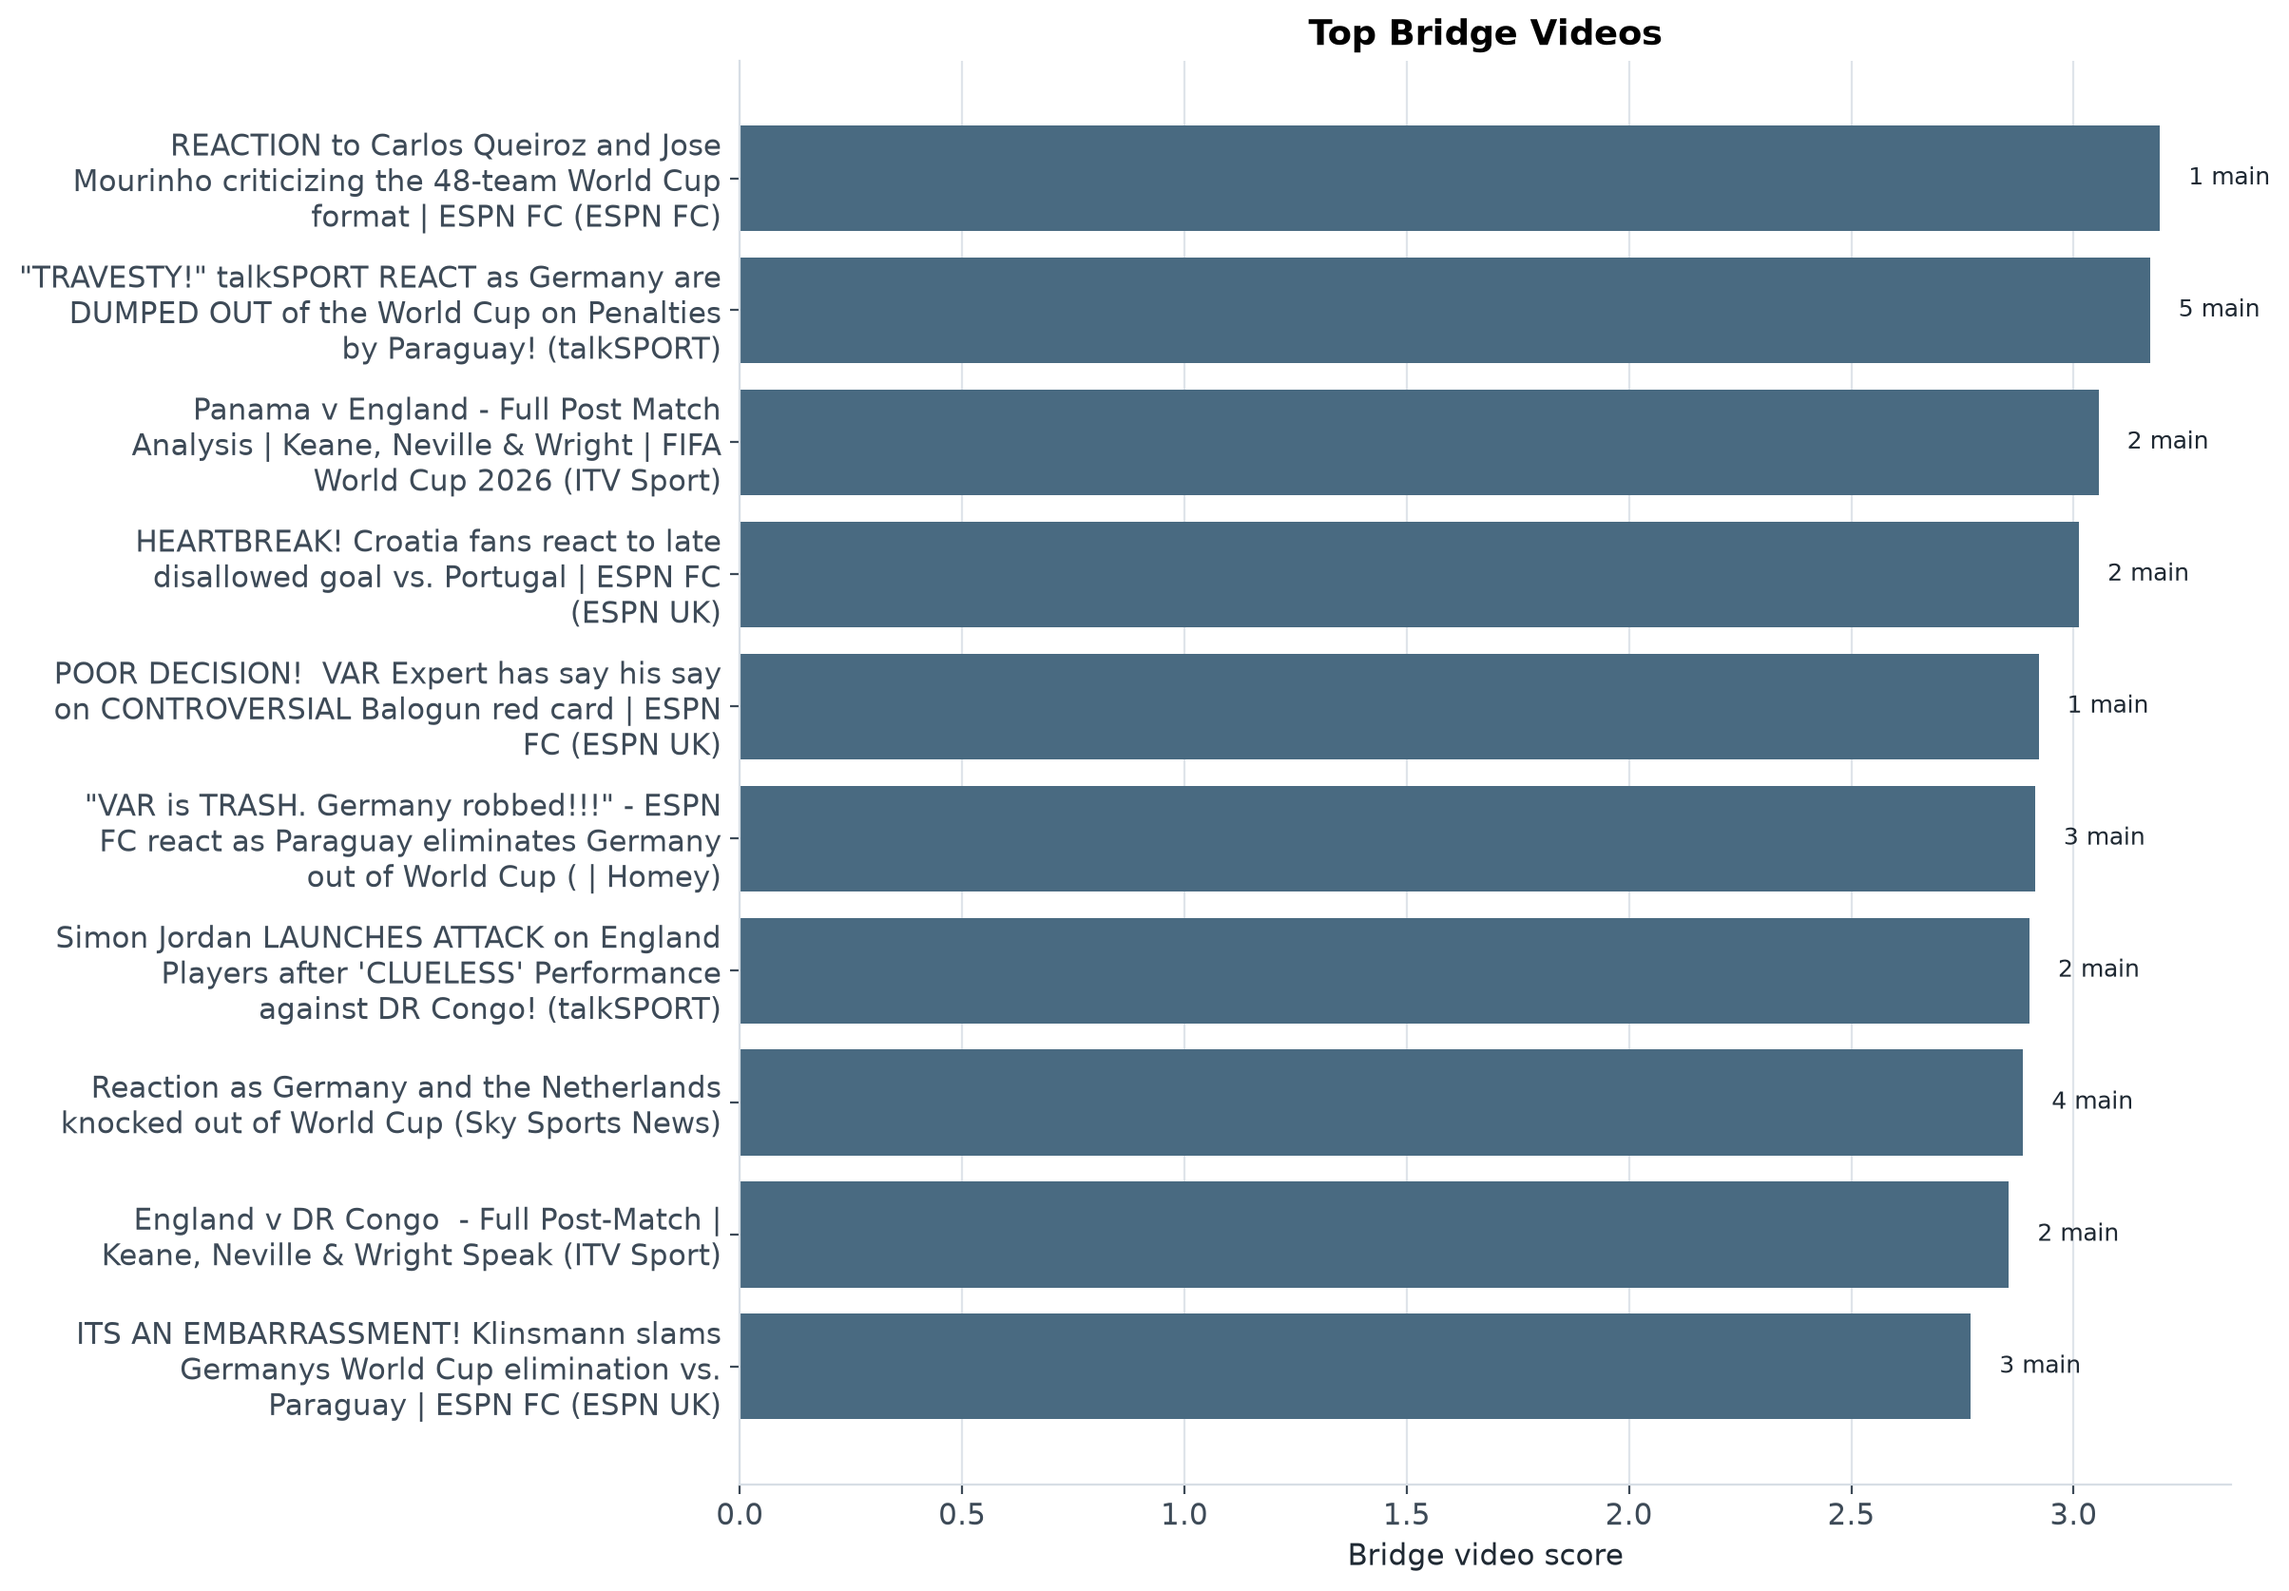
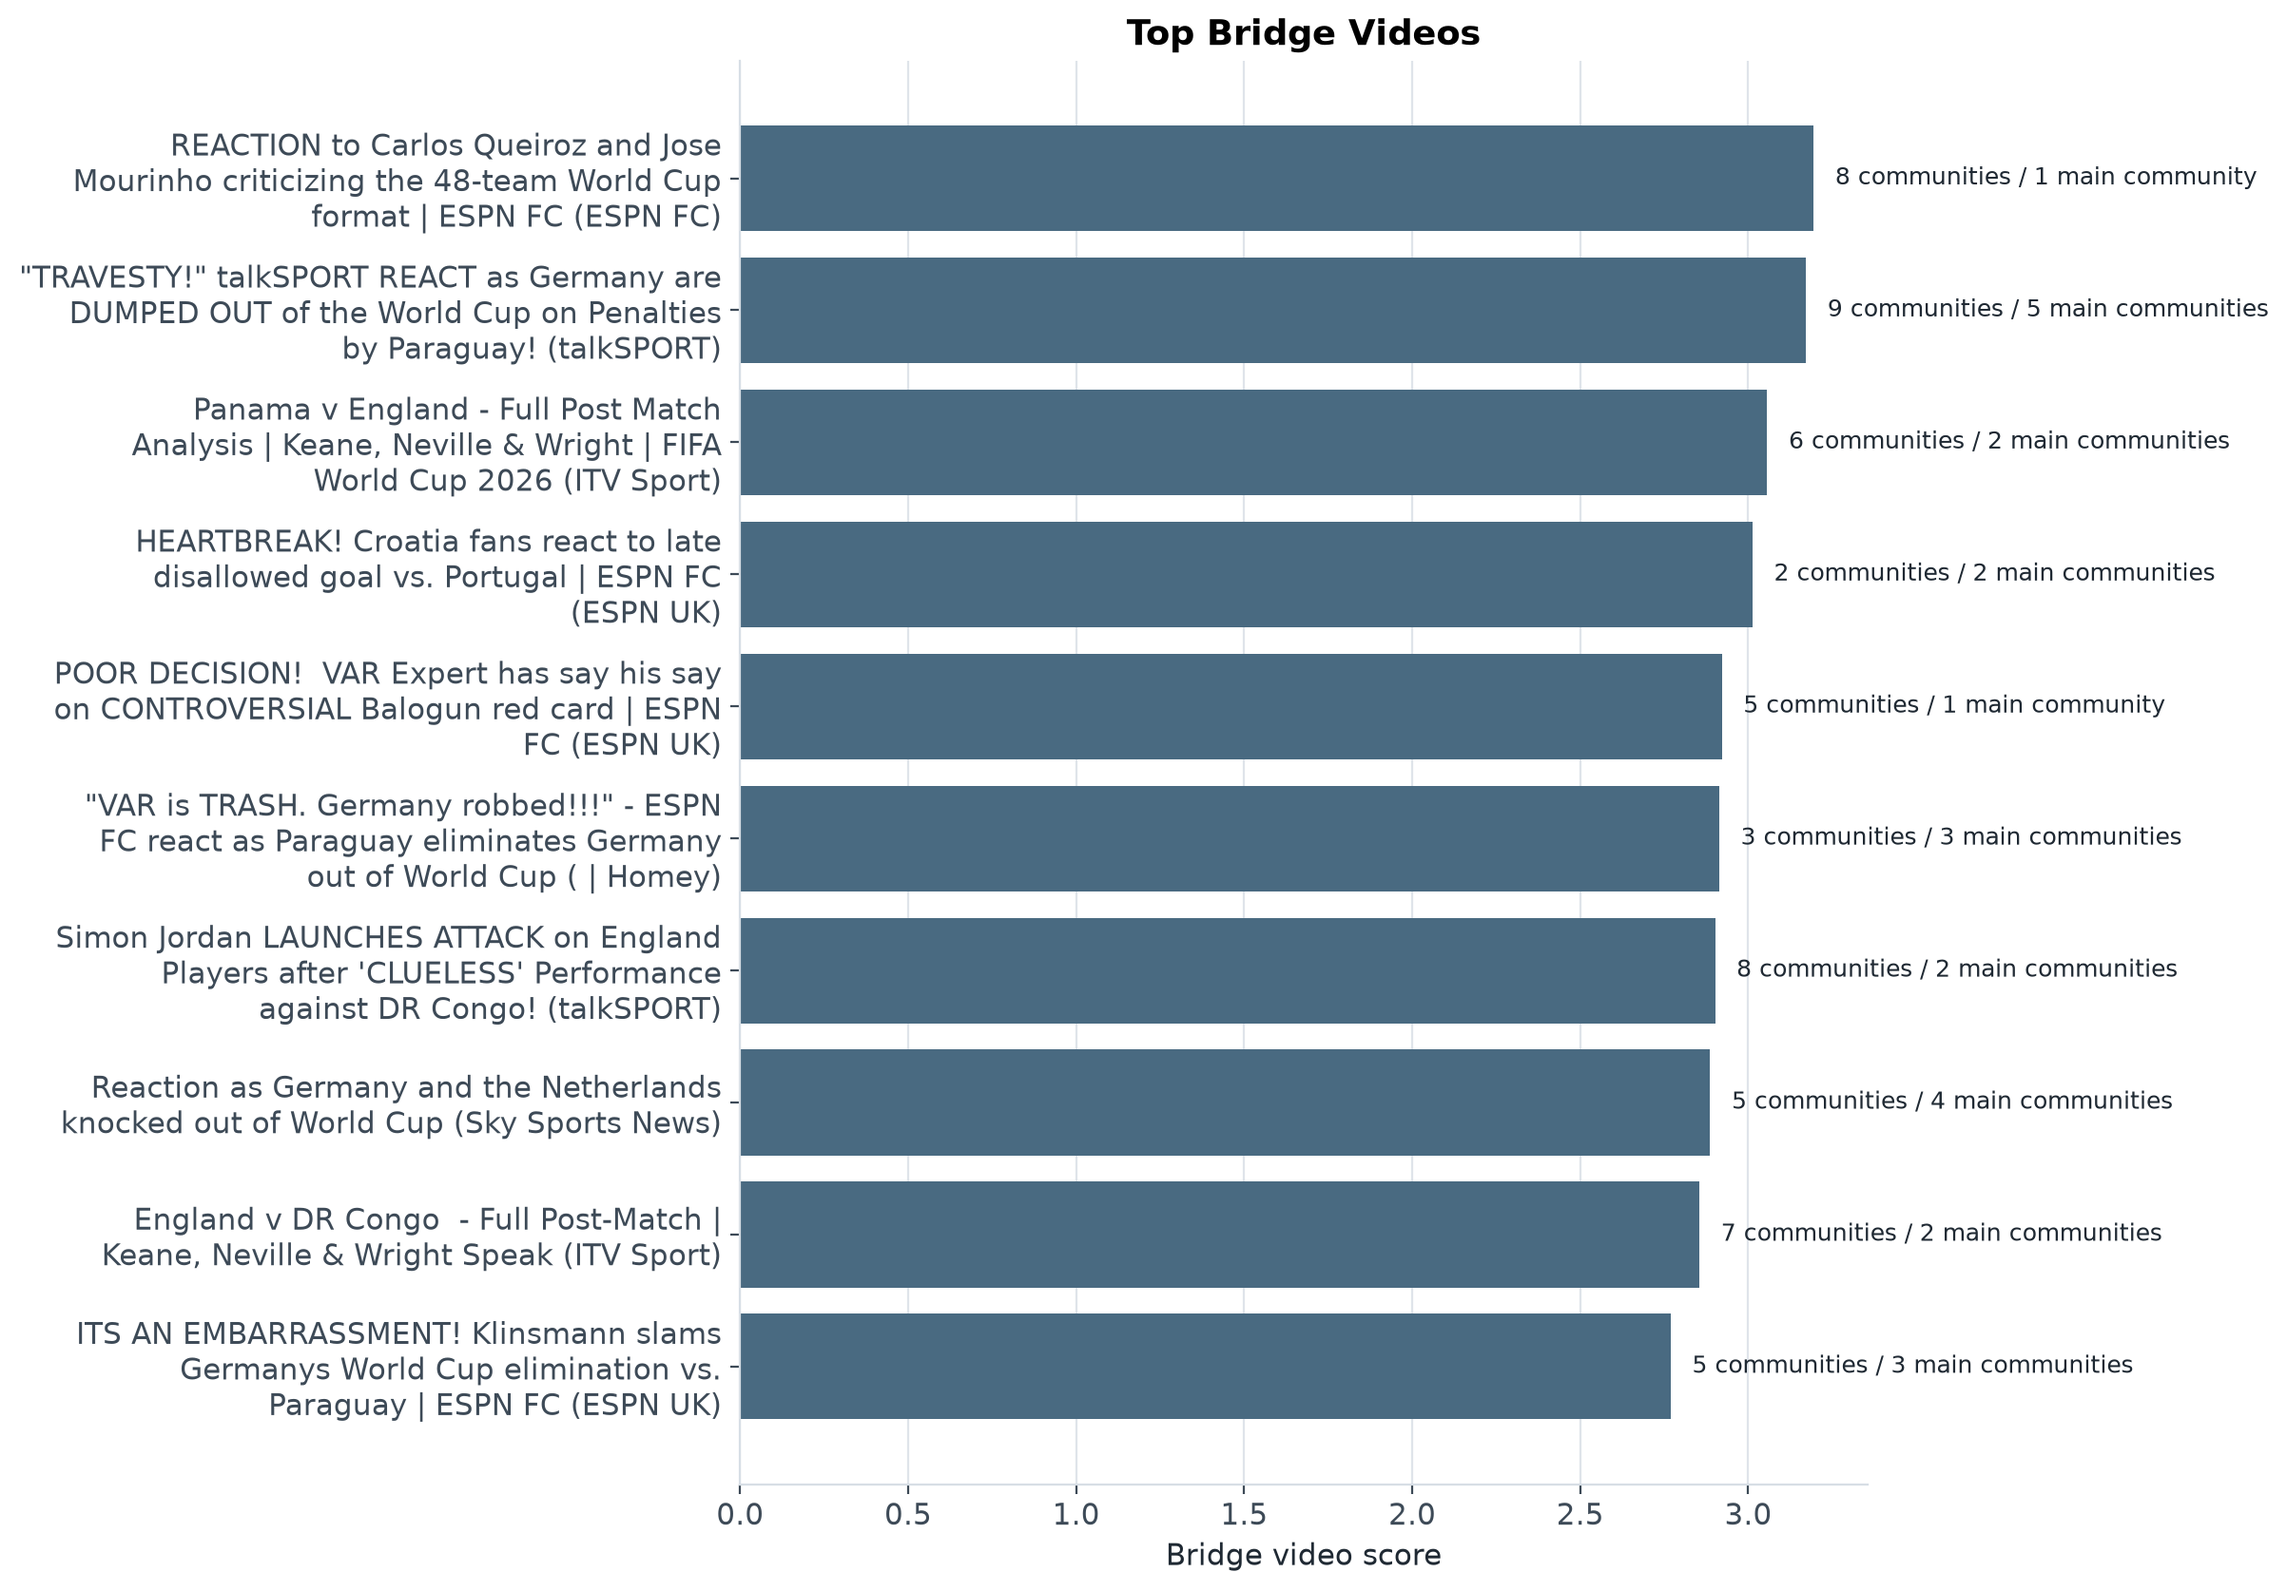
Finalize project dependencies and bridge outputs

diff --git a/src/analyze_bridges.py b/src/analyze_bridges.py
@@ -712,6 +712,11 @@ def wrapped_label(primary_text: str, secondary_text: str, width: int) -> str:
 
 def create_bridge_videos_figure(bridge_videos_df: pd.DataFrame, top_n: int) -> plt.Figure:
     """Create a horizontal bar chart of the top bridge videos."""
+    def format_representation_annotation(community_count: int, main_count: int) -> str:
+        community_label = "community" if int(community_count) == 1 else "communities"
+        main_label = "main community" if int(main_count) == 1 else "main communities"
+        return f"{int(community_count)} {community_label} / {int(main_count)} {main_label}"
+
     figure_df = bridge_videos_df.head(top_n).copy()
     if figure_df.empty:
         raise ValueError("No bridge videos are available for plotting.")
@@ -726,11 +731,15 @@ def create_bridge_videos_figure(bridge_videos_df: pd.DataFrame, top_n: int) -> p
     axis.set_axisbelow(True)
 
     xmax = float(figure_df["bridge_video_score"].max()) if len(figure_df) else 0.0
-    for bar, main_count in zip(bars, figure_df["main_communities_represented"]):
+    for bar, community_count, main_count in zip(
+        bars,
+        figure_df["communities_represented"],
+        figure_df["main_communities_represented"],
+    ):
         axis.text(
             bar.get_width() + max(xmax * 0.02, 0.03),
             bar.get_y() + bar.get_height() / 2,
-            f"{int(main_count)} main",
+            format_representation_annotation(community_count, main_count),
             va="center",
             ha="left",
             fontsize=9,

diff --git a/notes.md b/notes.md
@@ -561,7 +561,7 @@ For each normalized entity, the script counts how many comments mention the enti
 
 Bridge users are summarized with betweenness centrality together with degree and weighted degree on the thresholded co-commenting graph.
 
-Bridge videos are summarized with the number of communities represented, the number of main communities represented, the dominant community share, community entropy, and a bridge-video score. Entropy is used here as a simple diversity measure: high entropy means participation is spread more evenly across communities, while low entropy means one community dominates. The bridge-video score combines that diversity signal with the total number of participating community users so that a bridge video should be both mixed and substantively attended.
+Bridge videos are summarized with the number of communities represented, the number of main communities represented, the dominant community share, community entropy, and a bridge-video score. The bridge video figure annotates each video with the total number of detected communities represented and the number of main communities represented. A community is counted as represented if at least one community-assigned user commented on the video. Bridge-video scores are computed using all detected communities, not only the main communities. Main-community counts are shown only to help interpret whether a bridge video connects the large communities or mostly connects smaller peripheral communities. Entropy is used here as a simple diversity measure: high entropy means participation is spread more evenly across communities, while low entropy means one community dominates. The bridge-video score combines that diversity signal with the total number of participating community users so that a bridge video should be both mixed and substantively attended.
 
 bridge_video_score = normalized community entropy * log1p(total community users on video)
 

diff --git a/README.md b/README.md
@@ -155,7 +155,3 @@ This writes detailed comment, term, entity, and representative-comment inspectio
 - `outputs/figures/bridge_entities.png`: top bridge entities across communities
 
 Generated outputs can be regenerated and are overwritten by default.
-
-## Method Note
-
-Later co-commenting networks represent shared participation in the same video discussion space, not direct interaction between users.
